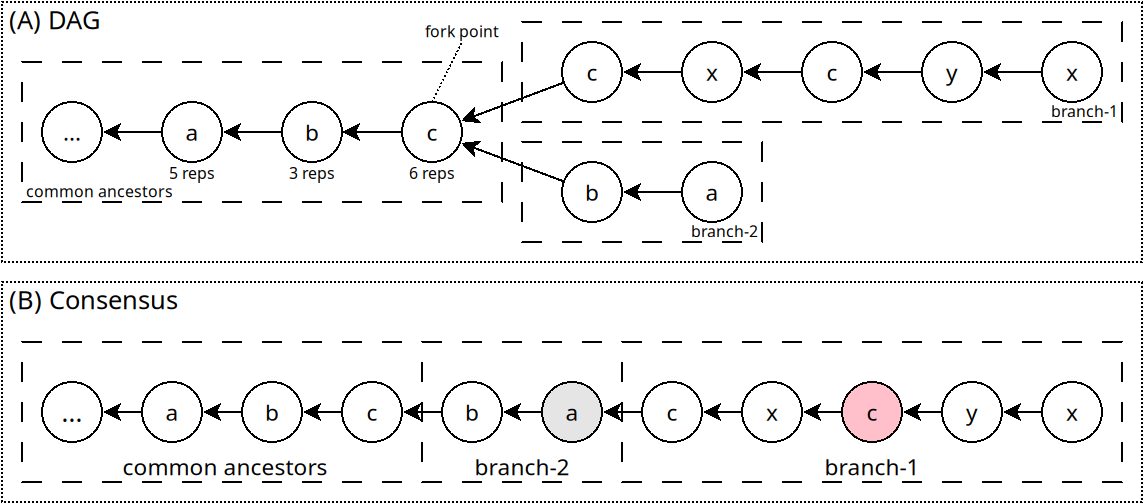
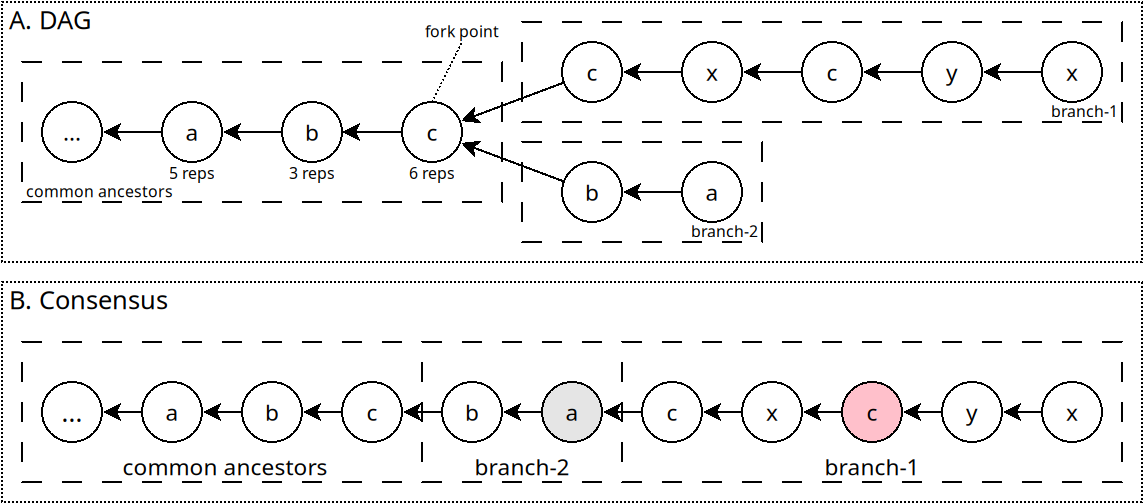
...

Changed region(s): [[0.0, 0.5666, 0.1531, 0.6262], [0.0, 0.0, 0.0919, 0.0596]]

diff --git a/main.tex b/main.tex
@@ -982,42 +982,27 @@ parents, hence \emph{chain time}.
 \caption{
     Consensus timeline as monotonic clock.
 }
-\label{fig.times}
+\label{fig.monotonic}
 \end{figure}
 
-We also rely on chain time to make the consensus timeline a monotonic clock.
+We also rely on chain time to make the consensus timeline
+(\S\ref{sec.design.consensus}) a monotonic clock.
 %
 Each action in the order carries a \emph{position timestamp}~($P_i$) as the
 maximum between the previous position timestamp~($P_{i-1}$) and its own
-self-declared timestamp~($S_i$): $P_i~=~\max(P_{i-1},S_i$), with $P_0~=~S_0$.
+self-declared timestamp~($S_i$): $P_i=\max(P_{i-1},S_i)$, with $P_0=S_0$.
 %
 In Figure~\ref{fig.monotonic}, (A) illustrates a forked DAG with non-monotonic
-self-declared timestamps, whereas (B) shows its consensus order as a monotonic
+self-declared timestamps, and (B) shows its consensus order as a monotonic
 clock.
-Note how timestamp \code{4} in the losing branch becomes \code{12} when
-preceded by the winning branch.
-
-
-
-
-Figure~\ref{fig.monoti
-
-
- by a
-temporary network partition. The common ances-
-tors have signed actions from members a, b, and c.
+For instance, note how timestamp $S_4=4$ in the losing branch (in gray) becomes
+$P_4=12$ (much newer), when preceded by the winning branch.
 
 - why important
 - also deterministic
+    - same across peers
+- exemplo do 24h refund?
 
-
- increase
-monotonically, i.e., from the 
-
-
- the \emph{consensus time} of an action is the newest
-  timestamp up to its position in the order
-  (\S\ref{sec.design.consensus}),
   which may be much later than its own, since a losing branch is
   appended
   after the winner regardless of its dates.
@@ -1033,22 +1018,6 @@ monotonically, i.e., from the
   peers
   holding the same DAG agree on it.
 
-
-
-We also rely on chain time to make the consensus timeline increase
-monotonically...
-
-As a final concern, ..
-
-Consensus time
-    - loosing branch
-    - same across peers
-
-Chain time is then the newest timestamp accepted so far, which only advances
-as real time passes.
-
-- exemplo do 24h refund
-
 Hence, members cannot backdate actions below their parents, nor forward-date
 them beyond the present of honest peers, so chain time only advances as real
 time passes.
@@ -1056,9 +1025,6 @@ time passes.
 Furthermore, the consensus order (\S\ref{sec.design.consensus}) may place an
 action far from its declared timestamp, since a losing branch is appended
 after the winner regardless of its dates.
-We therefore define the \emph{consensus time} of an action as the chain time
-at its position in the order, i.e., the maximum between its own timestamp and
-the consensus time of the preceding action.
 Consensus time follows from the DAG alone, so peers holding the same DAG
 compute the same values, and it is what the settling window counts.
 
